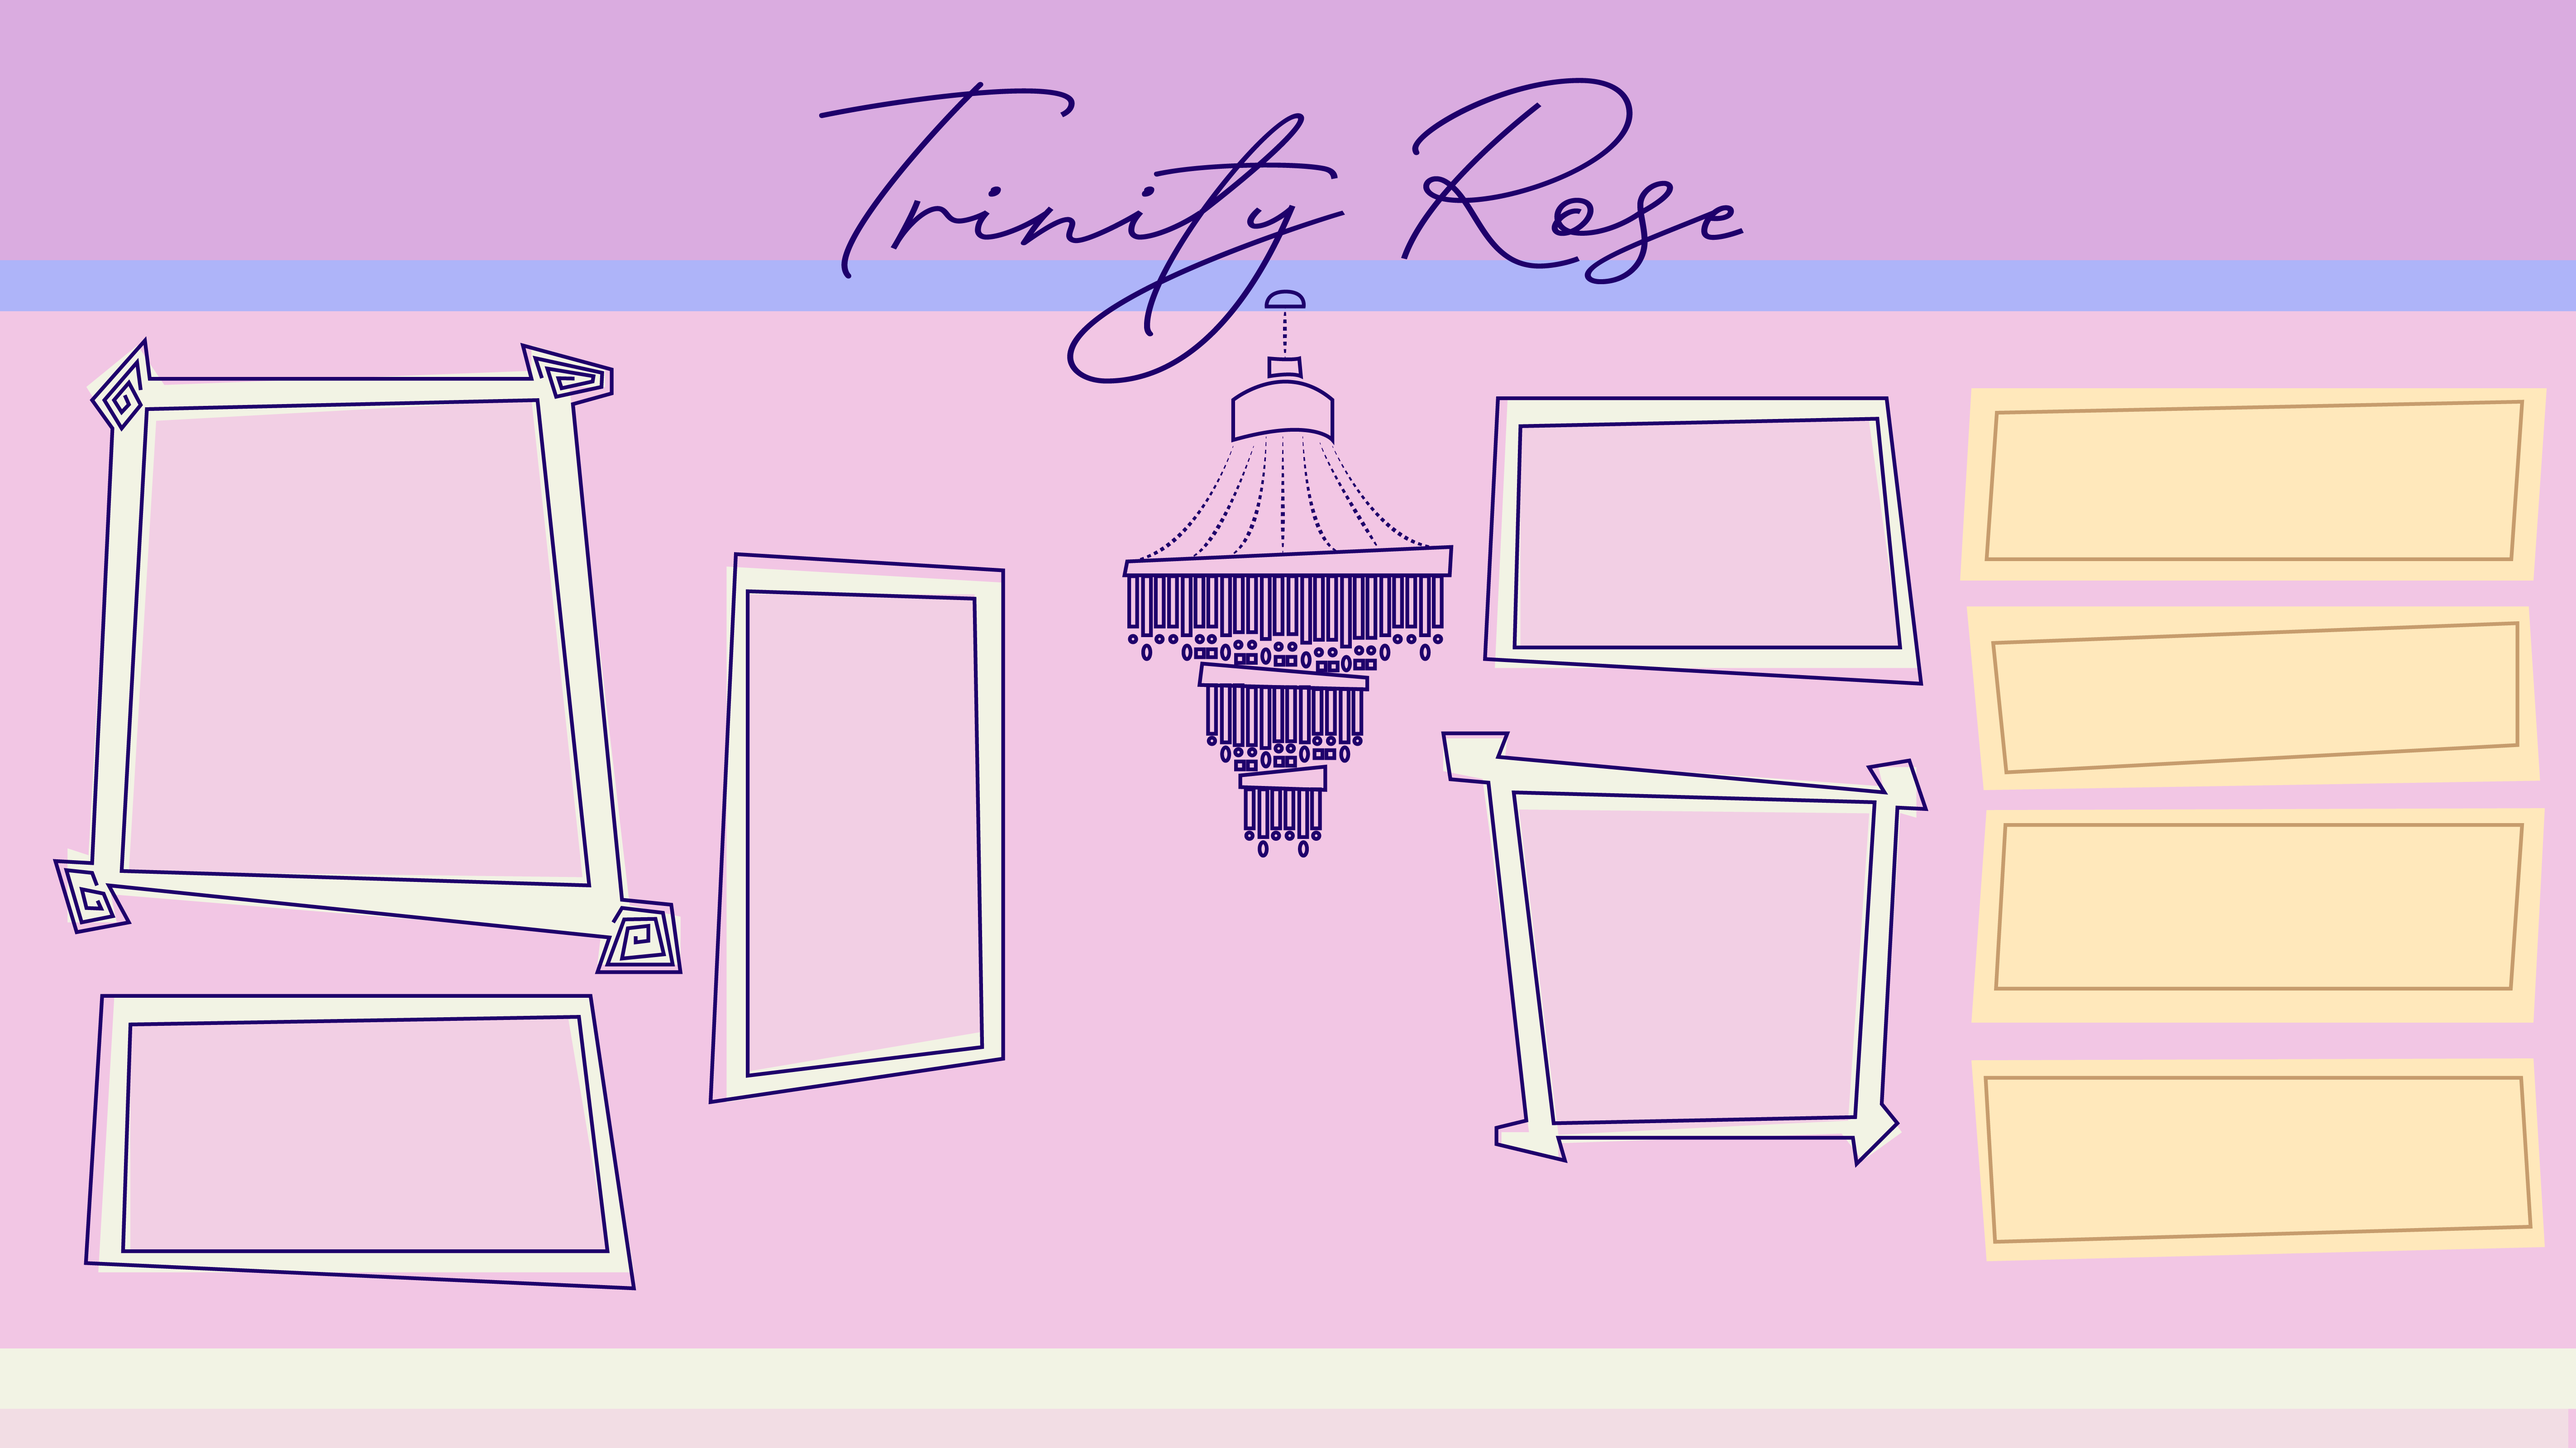
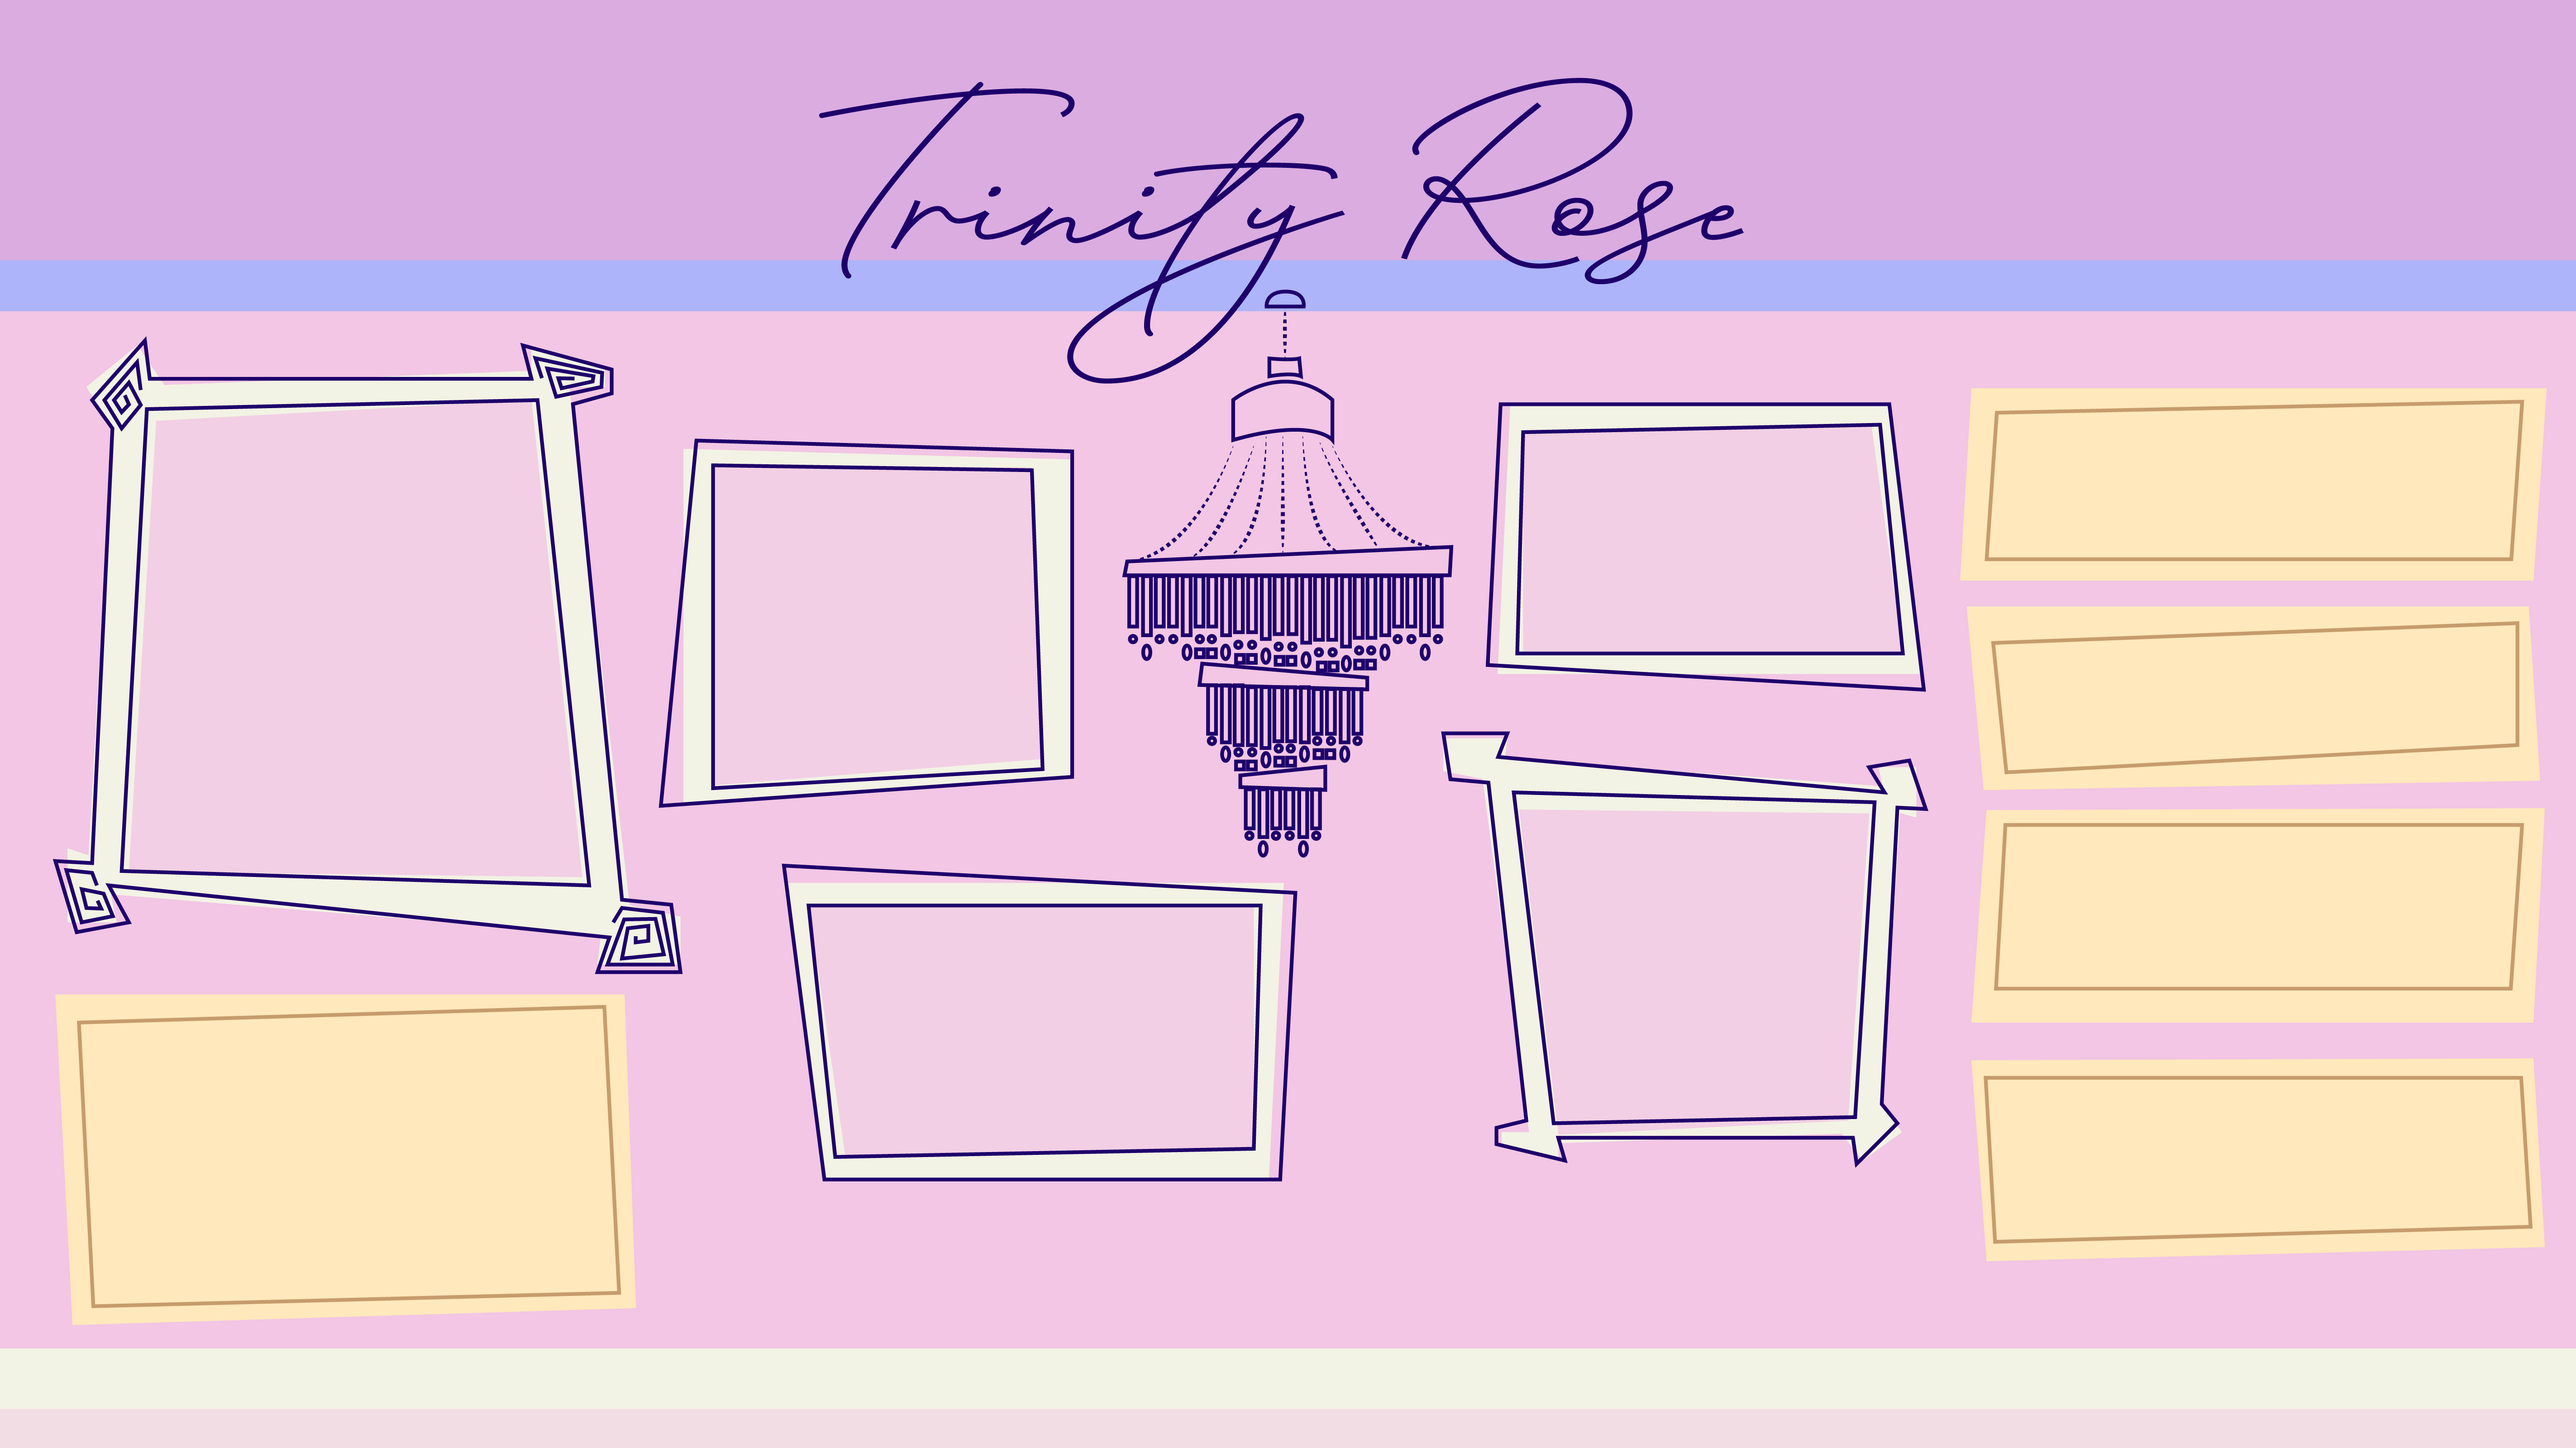
editing the css fot home page

Changed region(s): [[0.2488, 0.2812, 0.4975, 0.8438], [0.0, 0.6875, 0.2488, 0.9375], [0.5597, 0.25, 0.7463, 0.5]]

diff --git a/docs/style.css b/docs/style.css
@@ -75,6 +75,7 @@ body.home-page {
   inset: 0;
 }
 
+
 .btn {
   position: absolute;
   width: 100%;
@@ -101,16 +102,19 @@ body.home-page {
 }
 
 .gallery {
-  top: 49%;
+  top: 47%;
   left: 77.4%;
 }
 
 .essays {
   top: 75.7%;
   left: 77%;
+ 
+  
 }
 .btn {
   position: absolute;
+  
   width: 20%;
   height: 9%;
   display: flex;
@@ -121,5 +125,27 @@ body.home-page {
   font-size: clamp(1.4rem, 2.6vw, 2.7rem);
   color: #8a7348;
   line-height: 1;
-  background: rgba(255, 0, 0, 0.18);
+/*  background: rgba(255, 0, 0, 0.18);*/
+
+}
+.about-blurb {
+  position: absolute;
+  top: 40.2%;
+  left: 3.2%;
+  width: 21%;
+
+
+  display: flex;
+  align-items: center;
+  justify-content: center;
+
+  text-decoration: none; 
+
+  font-family: "Times New Roman", serif;
+  font-size: 10pt;
+  /*line-height: 1.35;
+  text-align: center;
+*/
+  color: #8a7348;
+  text-shadow: 0.5px 0.5px 2px rgba(0, 0, 0, 0.12);
 }

diff --git a/docs/essays.html b/docs/essays.html
@@ -1,9 +1,30 @@
 <!DOCTYPE html>
 <html>
+    
     <head>
         <title>essays</title>
     </head>
     <body>
+        <nav>
+            <ul class="nav">
+                <li>
+                    <a href="index.html">Home</a>
+                </li>
+                <li>
+                    <a href="about.html">About</a>
+                </li>
+                <li>
+                    <a href="gallery.html">Gallery</a>
+                </li>
+                <li>
+                    <a href="work.html">Projects</a>
+                </li>
+                <li>
+                    <a href="essays.html">Reflection</a>
+                </li>
+            </ul>
+        </nav>
+        
         <h1>Comparative Website Development Reflection</h1>
 
         <p> For this project in DIGIT 100, I developed two websites side by side. One I constructed

diff --git a/docs/index.html b/docs/index.html
@@ -6,10 +6,10 @@
         <link rel="stylesheet" href="style.css">
     </head>
     <body class="home-page">
-        
+
         <main class="hero">
             <img src="images/homepage.png" alt="Homepage design for Trinity Rose" class="hero-img">
-            
+
             <nav class="hero-nav">
                 <a class="btn about" href="about.html">about</a>
                 <a class="btn projects" href="work.html">projects</a>
@@ -17,6 +17,8 @@
                 <a class="btn essays" href="essays.html">essays</a>
             </nav>
         </main>
-        
+        <div class="about-blurb"> Hello! My name is Trinity Rose and I am a DIGIT major at Penn
+            State Behrend. This is my DIGIT 100 website and it is very much still in development. </div>
+
     </body>
 </html>
